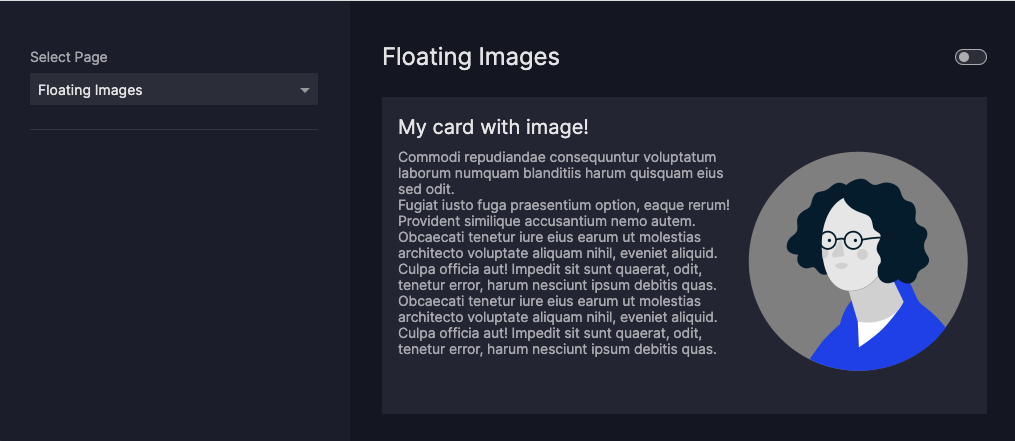
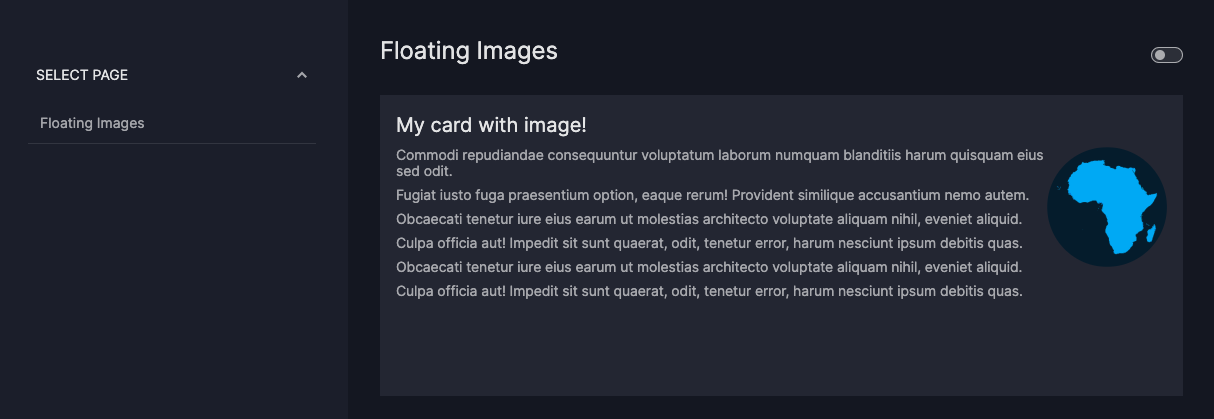
Add section to placing/styling images back

diff --git a/vizro-core/docs/pages/user_guides/components.md b/vizro-core/docs/pages/user_guides/components.md
@@ -259,6 +259,77 @@ Based on the provided examples from Dash, the [`Card`][vizro.models.Card] model 
 
     [CardText]: ../../assets/user_guides/components/card_text.png
 
+### Placing images
+
+Images can be added to the `text` parameter by using the standard markdown syntax:
+
+`![Image ALT text](Image URL)`
+
+An image ALT text provides a description to your image and serves e.g. as a text placeholder or to improve the
+accessibility of your app. Providing an image ALT text is optional.
+
+1. To use a relative Image URL, place an image of your choice into your `assets` folder first
+2. Use markdown to render your image by using one of the following syntax:
+    - Relative Image URL: `![Image ALT text](/path/to/image.png)`
+    - Absolute Image URL: `![Image ALT text](https://XXXXXX)`
+
+!!! example "Card with image"
+    === "app.py"
+        ```py
+        import vizro.models as vm
+        from vizro import Vizro
+
+        page = vm.Page(
+                title="Placing Images",
+                components=[
+                    vm.Card(
+                        text="""
+                        ### My card with image!
+
+                        ![continent](assets/images/continents/africa.svg)
+
+                         Commodi repudiandae consequuntur voluptatum laborum numquam blanditiis harum quisquam eius sed odit.
+
+                         Fugiat iusto fuga praesentium option, eaque rerum! Provident similique accusantium nemo autem.
+
+                         Obcaecati tenetur iure eius earum ut molestias architecto voluptate aliquam nihil, eveniet aliquid.
+                    """,
+                    ),
+                ],
+            )
+
+        dashboard = vm.Dashboard(pages=[page])
+        Vizro().build(dashboard).run()
+        ```
+    === "app.yaml"
+        ```yaml
+        # Still requires a .py to register data connector in Data Manager and parse yaml configuration
+        # See from_yaml example
+        pages:
+        - components:
+            - text: |
+                ![continent](assets/images/continents/africa.svg)
+
+                Commodi repudiandae consequuntur voluptatum laborum numquam blanditiis harum quisquam eius sed odit.
+
+                Fugiat iusto fuga praesentium option, eaque rerum! Provident similique accusantium nemo autem.
+
+                Obcaecati tenetur iure eius earum ut molestias architecto voluptate aliquam nihil, eveniet aliquid.
+              title: My card with image!
+              type: card
+          title: Placing Images
+        ```
+    === "Result"
+         [![CardImageDefault]][CardImageDefault]
+
+    [CardImageDefault]: ../../assets/user_guides/components/card_image_default.png
+
+!!! note
+
+    Note that inserting images using html is by default turned off by the `dcc.Markdown` to prevent users being exposed
+    to cross-site scripting attacks. If you need to turn it on, a custom component would have to be created.
+
+You might notice that the image is quite large, find out how to style images (e.g. position and size) in the next section!
 
 ### Styling images
 
@@ -273,8 +344,8 @@ and provide an attribute selector to select images with that matching URL hash.
     === "images.css"
     ```css
     img[src*="#my-image"] {
-      width:  80px;
-      height: 80px;
+      width: 120px;
+      height: 120px;
     }
     ```
     === "app.py"
@@ -289,7 +360,7 @@ and provide an attribute selector to select images with that matching URL hash.
                         text="""
                         ### My card with image!
 
-                        ![](assets/images/avatars/avatar1.png#my-image)
+                        ![](assets/images/continents/africa.svg#my-image)
 
                          Commodi repudiandae consequuntur voluptatum laborum numquam blanditiis harum quisquam eius sed odit.
 
@@ -312,7 +383,7 @@ and provide an attribute selector to select images with that matching URL hash.
         pages:
         - components:
             - text: |
-                ![](assets/images/avatars/avatar1.png#my-image)
+                ![](assets/images/continents/africa.svg#my-image)
 
                 Commodi repudiandae consequuntur voluptatum laborum numquam blanditiis harum quisquam eius sed odit.
 
@@ -349,7 +420,7 @@ and provide an attribute selector to select images with that matching URL hash.
                         text="""
                         ### My card with image!
 
-                        ![](assets/images/avatars/avatar1.png#floating-right)
+                        ![](assets/images/continents/africa.svg#my-image#floating-right)
 
                          Commodi repudiandae consequuntur voluptatum laborum numquam blanditiis harum quisquam eius sed odit.
 
@@ -378,7 +449,7 @@ and provide an attribute selector to select images with that matching URL hash.
         pages:
         - components:
             - text: |
-                ![](assets/images/avatars/avatar1.png#floating-right)
+                ![](assets/images/continents/africa.svg#my-image#floating-right)
 
                 Commodi repudiandae consequuntur voluptatum laborum numquam blanditiis harum quisquam eius sed odit.
 
